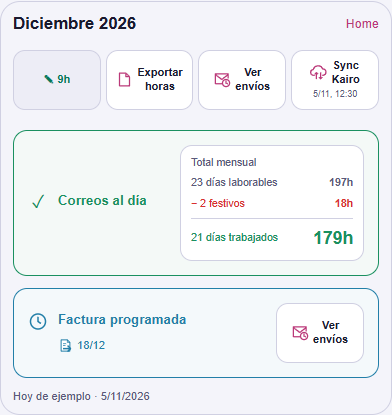
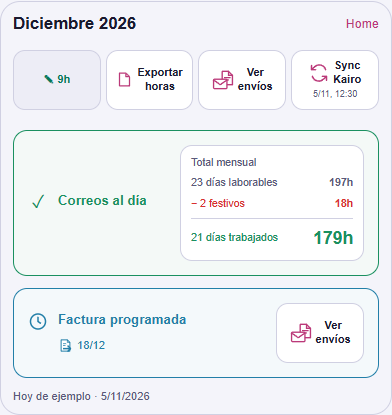
Simplificar el error de Sync Kairo y renovar los iconos de Home

Changed region(s): [[0.5204, 0.1446, 0.7041, 0.2313], [0.7347, 0.7518, 0.8878, 0.8386], [0.7653, 0.1446, 0.9184, 0.2024]]

diff --git a/docs/visual-map/review/home-proposal-v539.html b/docs/visual-map/review/home-proposal-v539.html
@@ -2,7 +2,7 @@
 <html lang="es" data-theme="light">
 <meta charset="utf-8">
 <meta name="viewport" content="width=device-width,initial-scale=1">
-<title>Home · Propuesta revisada · R4</title>
+<title>Home · Propuesta revisada · R5</title>
 <link rel="stylesheet" href="../../../css/styles.css">
 <style>
 body{margin:0;padding:24px 14px 40px;max-width:none;min-height:100vh}
@@ -22,8 +22,11 @@ body{margin:0;padding:24px 14px 40px;max-width:none;min-height:100vh}
 .draft-view-button{width:var(--draft-button-width);flex:none}
 .draft-tools button:first-child{background:var(--surface2);color:var(--hour-9)}
 .draft-tools small{display:block;font-size:.56rem;font-weight:500;color:var(--text-muted);margin-top:3px}
+.draft-tools small.draft-sync-error{color:var(--c-red)}
 .draft-tool-label{display:flex;align-items:center;justify-content:center;gap:4px}
 .draft-tool-label svg{width:17px;height:17px;flex:none;color:var(--home-tone)}
+.draft-tool-label .draft-view-icon{width:22px;height:22px}
+.draft-tool-label .draft-sync-icon{width:20px;height:20px}
 .draft-panel{--tone:var(--home-tone);padding:14px;border:1.5px solid var(--tone);border-radius:14px;background:color-mix(in srgb,var(--tone) 5%,var(--surface));margin-bottom:12px}
 .draft-panel.complete{--tone:var(--c-green)}
 .draft-panel.scheduled{--tone:var(--upcoming-text)}
@@ -61,7 +64,6 @@ body{margin:0;padding:24px 14px 40px;max-width:none;min-height:100vh}
 .draft-summary .worked{border-top:1px solid var(--border);padding-top:8px;margin:0;color:var(--c-green);align-items:center}
 .draft-summary .worked strong{font-size:1.1rem;white-space:nowrap}
 .draft-summary .worked span{white-space:nowrap}
-.draft-network{font-size:.65rem;line-height:1.4;color:var(--text-muted);margin:-10px 0 16px}
 .proposal-guide h2{font-size:.98rem;margin:0 0 12px}
 .proposal-guide p,.proposal-guide li{font-size:.8rem;line-height:1.6;color:var(--text-muted)}
 .proposal-guide ol{padding-left:20px}.proposal-guide li{margin-bottom:10px}
@@ -73,7 +75,7 @@ body{margin:0;padding:24px 14px 40px;max-width:none;min-height:100vh}
 </style>
 <main class="proposal">
   <h1>Home · Propuesta para revisar</h1>
-  <p class="proposal-revision">HOME-539-R4 · Icono de factura y aviso junto a la fecha</p>
+  <p class="proposal-revision">HOME-539-R5 · Nuevos iconos y error dentro de Sync Kairo</p>
   <p class="proposal-intro">Dos paneles estables y una acción principal cuando procede. Ejemplos con datos ficticios.</p>
   <div class="proposal-controls">
     <label>Mes
@@ -99,7 +101,7 @@ body{margin:0;padding:24px 14px 40px;max-width:none;min-height:100vh}
         <button type="button">✎ 9h</button>
         <button type="button"><span class="draft-tool-label"><svg viewBox="0 0 24 24" fill="none" stroke="currentColor" stroke-width="1.8" stroke-linejoin="round" aria-hidden="true"><path d="M5 3h9l5 5v13H5zM14 3v5h5"/></svg><span>Exportar<br>horas</span></span></button>
         <button type="button" id="draftTopView" class="draft-view-button" aria-label="Ver envíos"></button>
-        <button type="button"><span class="draft-tool-label"><svg viewBox="0 0 24 24" fill="none" stroke="currentColor" stroke-width="1.7" stroke-linecap="round" stroke-linejoin="round" aria-hidden="true"><path d="M6.5 16H5a4 4 0 0 1-.4-8A7 7 0 0 1 18 7a4.5 4.5 0 0 1 1 8.9h-1.5"/><path d="M9 21v-9m-2 2 2-2 2 2M15 12v9m-2-2 2 2 2-2"/></svg><span>Sync<br>Kairo</span></span><small>5/11, 12:30</small></button>
+        <button type="button" id="draftSync"><span class="draft-tool-label"><svg class="draft-sync-icon" viewBox="0 0 24 24" fill="none" stroke="currentColor" stroke-width="1.7" stroke-linecap="round" stroke-linejoin="round" aria-hidden="true"><path d="M20 8A8 8 0 0 0 6.4 4.9L3 8 M3 3v5h5 M4 16a8 8 0 0 0 13.6 3.1L21 16 M21 21v-5h-5"/></svg><span>Sync<br>Kairo</span></span><small id="draftSyncStatus" role="status" aria-live="polite">5/11, 12:30</small></button>
       </div>
       <div id="draftPanels" aria-live="polite"></div>
       <p id="draftActionFeedback" role="status"></p>
@@ -111,7 +113,7 @@ body{margin:0;padding:24px 14px 40px;max-width:none;min-height:100vh}
         <li><strong>Correos.</strong> «Correos pendientes de programar», «Correos al día» o «Correos con cambios». El contador breve se puede desplegar para consultar el alcance.</li>
         <li><strong>Factura.</strong> Reloj azul para la programada y check verde para la enviada. Junto a la fecha aparece el icono de factura con el color del panel. El plazo pendiente se expresa en días. Cuando falten requisitos, aparecen numerados y subrayados.</li>
         <li><strong>Alineación.</strong> Los dos títulos comparten el mismo margen y la misma columna de icono.</li>
-        <li><strong>Última sincronización.</strong> La fecha queda en Sync Kairo. Los paneles muestran los estados guardados.</li>
+        <li><strong>Última sincronización.</strong> La fecha queda en Sync Kairo. Si falla al pulsarlo, se sustituye por «error» en rojo y cursiva. En el ejemplo «Sin conexión», pulsa Sync Kairo para verlo; los paneles conservan sus estados.</li>
         <li><strong>Botones.</strong> Fondo blanco, iconos y texto con el acento rosa de Home. El mismo formato para exportar, consultar, sincronizar y enviar la factura.</li>
         <li><strong>Dos niveles de alerta.</strong> Rosa de Home con fondo suave y borde marcado para pendientes. Rojo más intenso si quedan menos de siete días o se requiere revisar una programación. La factura programada conserva su panel azul y añade un aviso con borde rojo y parpadeo a la derecha de la fecha cuando hay cambios en los correos.</li>
       </ol>
@@ -122,11 +124,17 @@ body{margin:0;padding:24px 14px 40px;max-width:none;min-height:100vh}
 <script>
 const monthInput=document.getElementById('draftMonth');
 const scenarioInput=document.getElementById('draftScenario');
+let syncFailed=false;
 const mailIcon='<svg viewBox="0 0 24 24" fill="currentColor" aria-hidden="true"><path d="M3 4h18a1 1 0 0 1 1 1v.5L12 12 2 5.5V5a1 1 0 0 1 1-1Zm-1 4 9.45 6.14a1 1 0 0 0 1.1 0L22 8v11a1 1 0 0 1-1 1H3a1 1 0 0 1-1-1Z"/></svg>';
 const invoiceIcon='<svg viewBox="-12 -12 24 24" aria-hidden="true"><path d="M-7,-9 H3 L7,-5 V9 H-7 Z" fill="#fff" stroke="currentColor" stroke-width="1.6" stroke-linejoin="round"/><path d="M3,-9 V-5 H7 M-4,-3 H1 M-4,0 H0" fill="none" stroke="currentColor" stroke-width="1.2"/><path d="M-3,5 H8 M4,1 L8,5 L4,9" fill="none" stroke="currentColor" stroke-width="2.4" stroke-linecap="round" stroke-linejoin="round"/></svg>';
 const clockIcon='<svg viewBox="0 0 24 24" fill="none" stroke="currentColor" stroke-width="1.8" stroke-linecap="round" stroke-linejoin="round" aria-hidden="true"><circle cx="12" cy="12" r="9"/><path d="M12 7v5l3 2"/></svg>';
-const viewLabel='<span class="draft-tool-label"><svg viewBox="0 0 24 24" fill="none" stroke="currentColor" stroke-width="1.8" stroke-linecap="round" stroke-linejoin="round" aria-hidden="true"><path d="M20 10V4H2v14h9M2 5l9 7 9-7"/><circle cx="17" cy="17" r="5"/><path d="M17 14v3l2 1"/></svg><span>Ver<br>envíos</span></span>';
+const viewLabel='<span class="draft-tool-label"><svg class="draft-view-icon" viewBox="0 0 28 28" fill="none" stroke="currentColor" stroke-width="1.7" stroke-linecap="round" stroke-linejoin="round" aria-hidden="true"><path d="M13 16V3h8l5 5v12H19Z" fill="var(--surface)"/><path d="M21 3v5h5 M16 11h7 M16 14h5"/><rect x="2" y="13" width="17" height="12" rx="1.5" fill="var(--surface)"/><path d="m2 14 8.5 6 8.5-6"/></svg><span>Ver<br>envíos</span></span>';
 document.getElementById('draftTopView').innerHTML=viewLabel;
+function renderSyncStatus(){
+  const label=document.getElementById('draftSyncStatus');
+  label.classList.toggle('draft-sync-error',syncFailed);
+  label.innerHTML=syncFailed?'<em>error</em>':'5/11, 12:30';
+}
 function viewButton(){
   return '<button type="button" class="draft-view-button" aria-label="Ver envíos">'+viewLabel+'</button>';
 }
@@ -168,16 +176,22 @@ function renderDraft(){
     const invoiceAction=scenario==='previous'?action('Ver factura anterior'):pending?'':action('Enviar factura');
     invoice='<section class="draft-panel '+(remaining<7?'urgent':'')+'">'+status(invoiceIcon,'Factura sin enviar',note+deadline)+invoiceAction+'</section>';
   }
-  const offline=scenario==='offline'?'<p class="draft-network">Sin conexión. Se muestran los últimos estados guardados.</p>':'';
   document.getElementById('draftMonthTitle').textContent=(month===12?'Diciembre':'Noviembre')+' 2026';
-  document.getElementById('draftPanels').innerHTML=offline+'<section class="draft-panel '+mailTone+'">'+mail+'</section>'+invoice;
+  document.getElementById('draftPanels').innerHTML='<section class="draft-panel '+mailTone+'">'+mail+'</section>'+invoice;
+  renderSyncStatus();
   document.getElementById('draftToday').textContent='Hoy de ejemplo · '+new Date(today).toLocaleDateString('es-ES',{timeZone:'UTC'});
   document.getElementById('draftActionFeedback').textContent='';
 }
 monthInput.addEventListener('change',renderDraft);
-scenarioInput.addEventListener('change',renderDraft);
+scenarioInput.addEventListener('change',()=>{syncFailed=false;renderDraft();});
 document.querySelector('.home-draft').addEventListener('click',event=>{
   const button=event.target.closest('button');
+  if(button&&button.id==='draftSync'){
+    syncFailed=scenarioInput.value==='offline';
+    renderSyncStatus();
+    document.getElementById('draftActionFeedback').textContent='';
+    return;
+  }
   if(button)document.getElementById('draftActionFeedback').textContent='Ejemplo de la acción «'+button.textContent.trim()+'».';
 });
 renderDraft();
